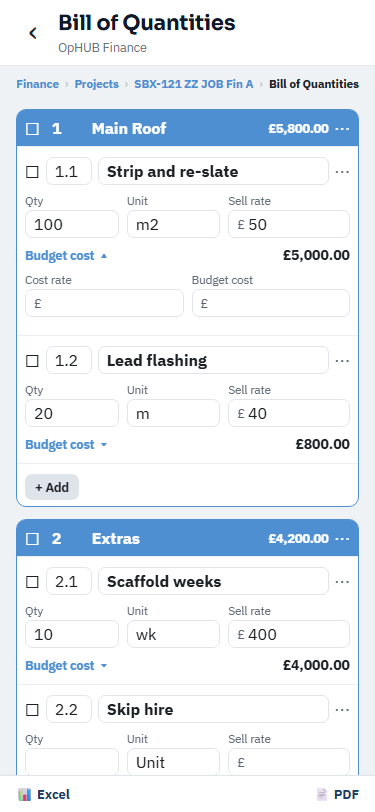
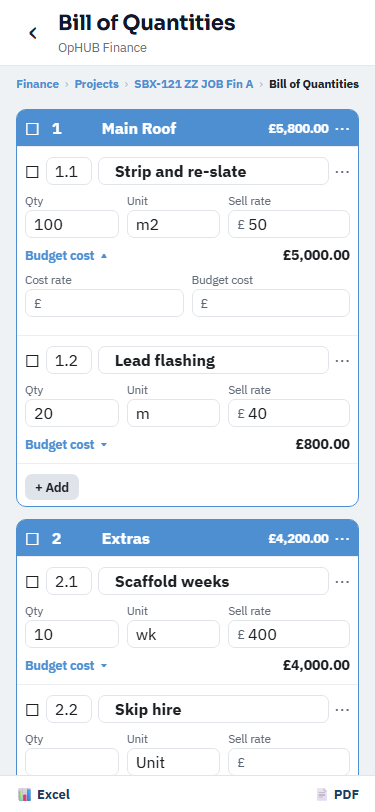
Bill of Quantities on a phone: description text indented.
Claude-Session: https://claude.ai/code/session_012KhfNvBEbifMJmPdX7yZfp

diff --git a/app-native/src/app/(app)/fin/job/[id]/boq.tsx b/app-native/src/app/(app)/fin/job/[id]/boq.tsx
@@ -284,7 +284,7 @@ function Editor({ id, initial, me }: { id: string; initial: Row[]; me: Profile }
             <View style={{ flexDirection: 'row', gap: 6, alignItems: 'center' }}>
               <Pressable hitSlop={6} focusable={false} accessibilityLabel="Tick" onPress={() => (head ? tick(grp, !on) : set(i, '_sel', !on))}><Text style={{ fontSize: 17, color: head ? ink : base.ink }}>{on ? '☑' : '☐'}</Text></Pressable>
               <TextInput value={refs[i]} onChangeText={(v) => set(i, 'ref', v)} placeholder="Ref" placeholderTextColor={head ? ink : undefined} style={[box, slim, { width: desk ? 64 : head ? 34 : 46 }, head && headBox]} />
-              <TextInput value={r.description || ''} onChangeText={(v) => set(i, 'description', v)} placeholder={head ? (r.kind === 'section' ? 'Section heading' : 'Sub-section heading') : 'Description'} placeholderTextColor={head ? ink : undefined} autoFocus={openK === r._k} multiline={!head} onContentSizeChange={head ? undefined : (e) => { const h = Math.ceil(e.nativeEvent.contentSize.height); setDescH((o) => (o[r._k] === h ? o : { ...o, [r._k]: h })); }} onKeyPress={head ? undefined : (e) => { const n = e.nativeEvent as unknown as { key: string; shiftKey?: boolean }; if (n.key === 'Tab' && !n.shiftKey) { (e as unknown as { preventDefault: () => void }).preventDefault(); qtyBox.current[r._k]?.focus(); } }} style={[box, slim, { flex: 1, minWidth: 0, height: Math.max(28, descH[r._k] || 0), paddingVertical: 4, lineHeight: 18, fontWeight: desk ? '400' : '700' }, head && { ...headBox, flex: 1, minWidth: 0 }]} />
+              <TextInput value={r.description || ''} onChangeText={(v) => set(i, 'description', v)} placeholder={head ? (r.kind === 'section' ? 'Section heading' : 'Sub-section heading') : 'Description'} placeholderTextColor={head ? ink : undefined} autoFocus={openK === r._k} multiline={!head} onContentSizeChange={head ? undefined : (e) => { const h = Math.ceil(e.nativeEvent.contentSize.height); setDescH((o) => (o[r._k] === h ? o : { ...o, [r._k]: h })); }} onKeyPress={head ? undefined : (e) => { const n = e.nativeEvent as unknown as { key: string; shiftKey?: boolean }; if (n.key === 'Tab' && !n.shiftKey) { (e as unknown as { preventDefault: () => void }).preventDefault(); qtyBox.current[r._k]?.focus(); } }} style={[box, slim, { flex: 1, minWidth: 0, height: Math.max(28, descH[r._k] || 0), paddingVertical: 4, lineHeight: 18, fontWeight: desk ? '400' : '700', paddingLeft: desk ? 8 : 16 }, head && { ...headBox, flex: 1, minWidth: 0 }]} />
               {head && <Text style={{ fontWeight: '800', color: ink, minWidth: desk ? 90 : 0, fontSize: desk ? 14 : 12.5, textAlign: 'right' }}>{money(tots[i]?.value || 0)}</Text>}
               <Pressable hitSlop={6} focusable={false} onPress={async () => {
                 const k = await chooseAction('Line', [{ key: 'ai', label: head ? '+ Item under this heading' : '+ Item below' }, ...(r.kind === 'section' ? [{ key: 'as', label: '+ Sub-section in this section' }] : []), { key: 'asec', label: '+ Section after this' }, { key: 'up', label: '↑ Move up' }, { key: 'down', label: '↓ Move down' }, { key: 'kind', label: 'Change type' }, { key: 'del', label: '🗑 Remove', danger: true }]);
